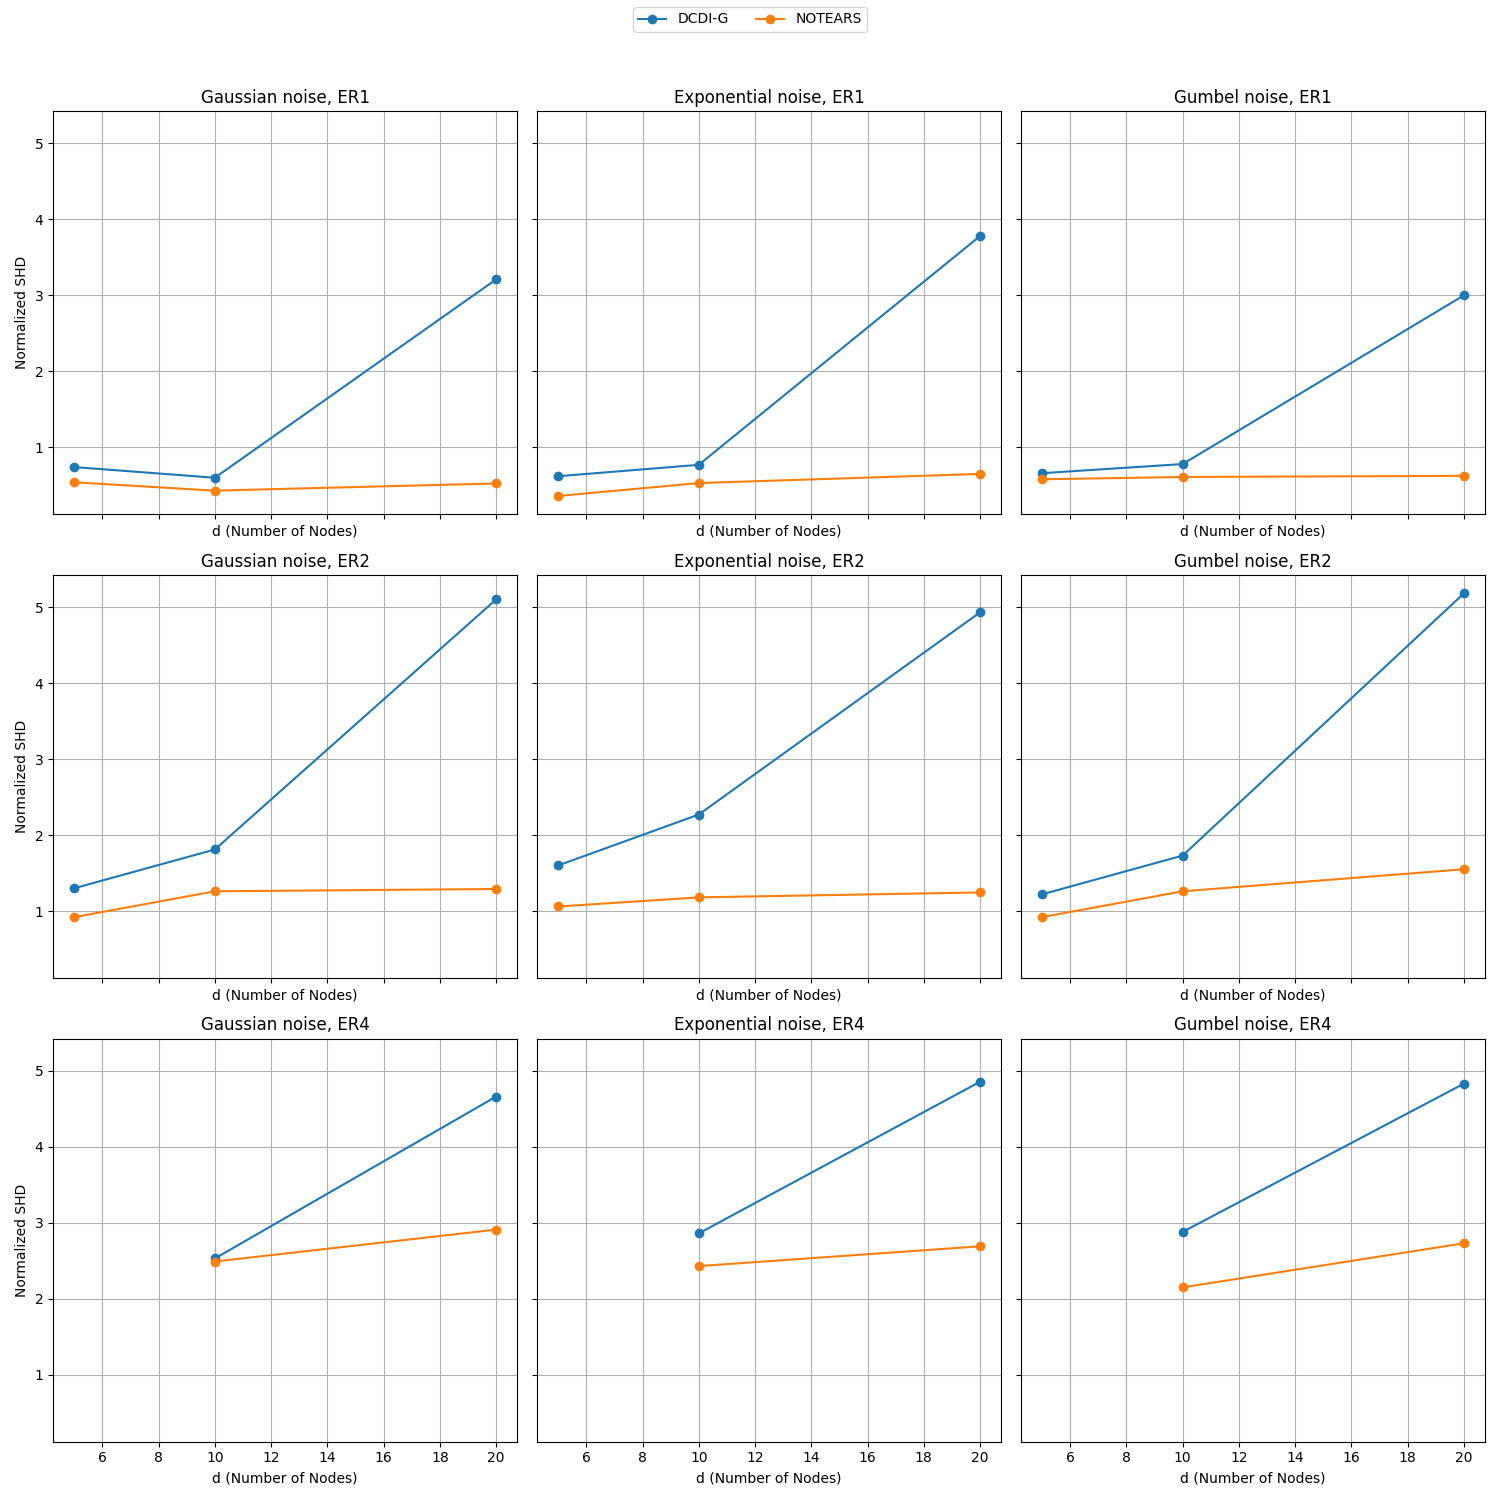
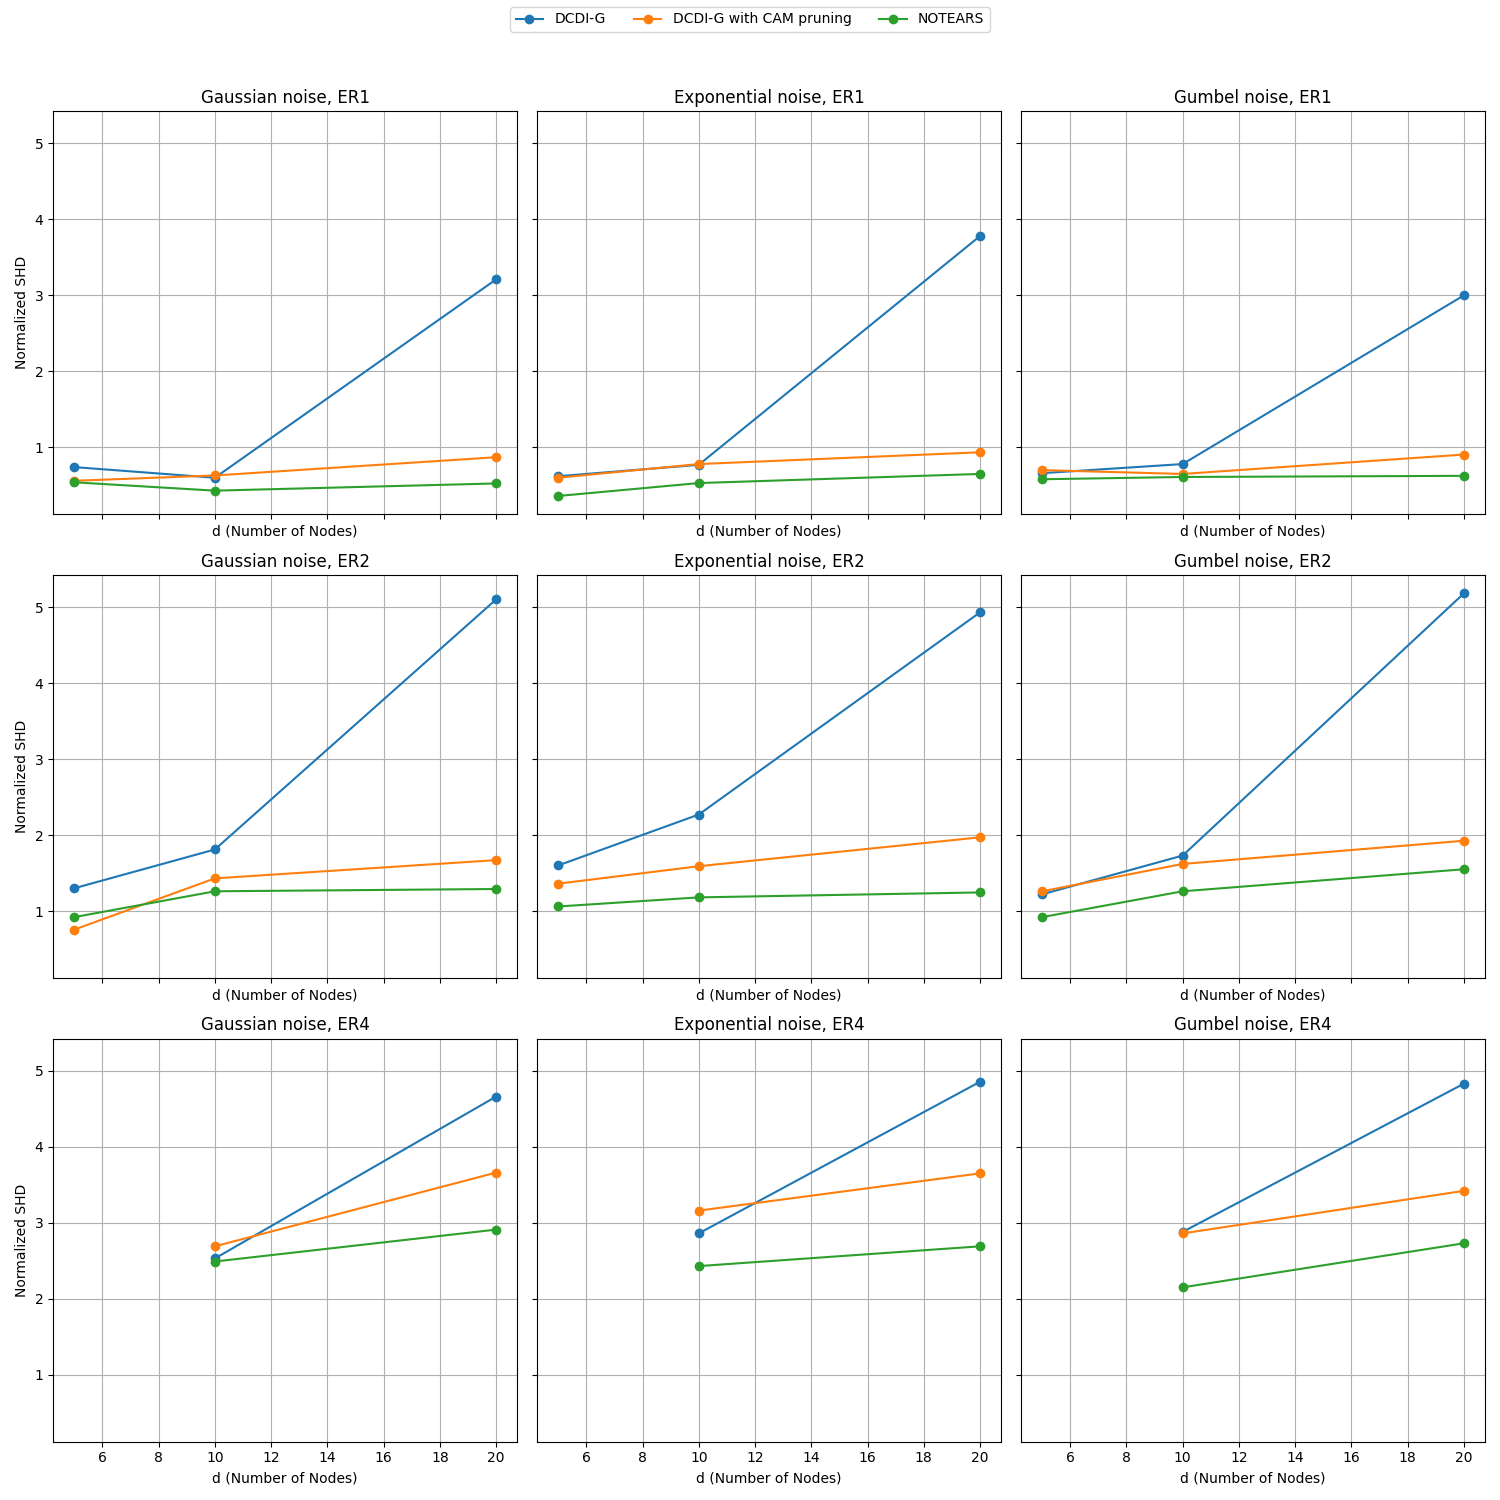
dcdi-g nonlinear shd

diff --git a/examples/dcdi/DCDI-G nonlinear/shd/reconstruct.py b/examples/dcdi/DCDI-G nonlinear/shd/reconstruct.py
@@ -7,7 +7,12 @@ import matplotlib.pyplot as plt
 num_nodes = [5, 10, 20]
 s0_ratios = [1, 2, 4]
 noise_types = ["gauss", "exp", "gumbel"]
-methods = ["DCDI-G", "NOTEARS"]
+methods = ["DCDI-G", "DCDI-G-CAM", "NOTEARS"]
+method_names = {
+    "DCDI-G": "DCDI-G",
+    "DCDI-G-CAM": "DCDI-G with CAM pruning",
+    "NOTEARS": "NOTEARS"
+}
 
 noise_names = {
     "gauss": "Gaussian",
@@ -50,7 +55,7 @@ for i, s0_ratio in enumerate(s0_ratios):
 
         for method in methods:
             means = [np.mean(results[method][noise][str(s0_ratio)][d]) for d in num_nodes]
-            ax.plot(num_nodes, means, marker="o", label=method)
+            ax.plot(num_nodes, means, marker="o", label=method_names[method])
 
         ax.set_title(f"{noise_names[noise]} noise, ER{s0_ratio}")
         ax.set_xlabel("d (Number of Nodes)")
